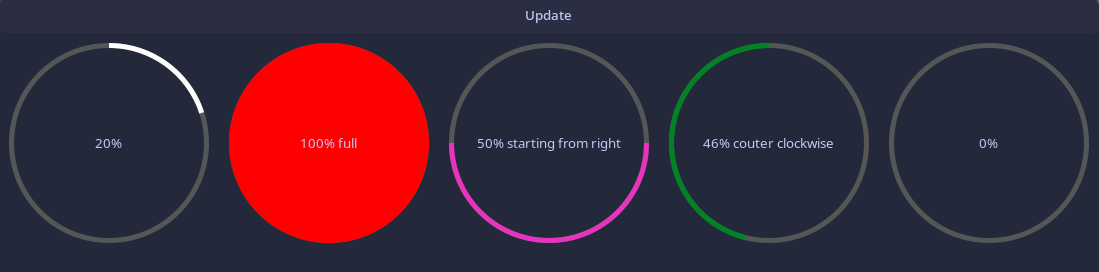
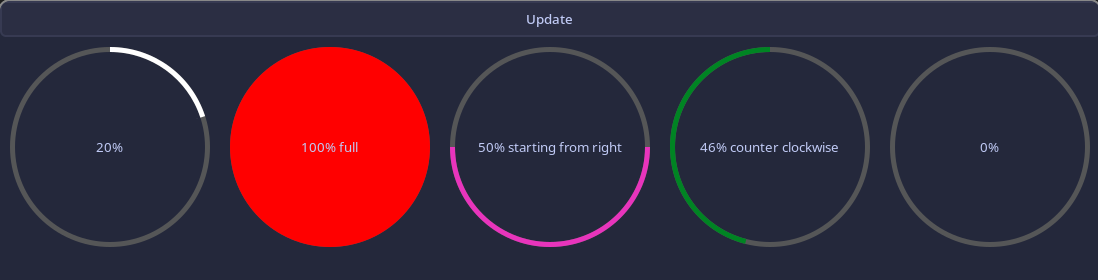
fixed typo

diff --git a/src/main.rs b/src/main.rs
@@ -103,7 +103,7 @@ impl SimpleComponent for App {
                 start_at: 0,
                 clockwise: false,
                 value: 46.,
-                label: Some("46% couter clockwise".to_string()),
+                label: Some("46% counter clockwise".to_string()),
                 background_color: Color::from_hex_string("#555657").unwrap(),
                 percentage_color: Color::from_hex_string("#008423").unwrap(),
             })
